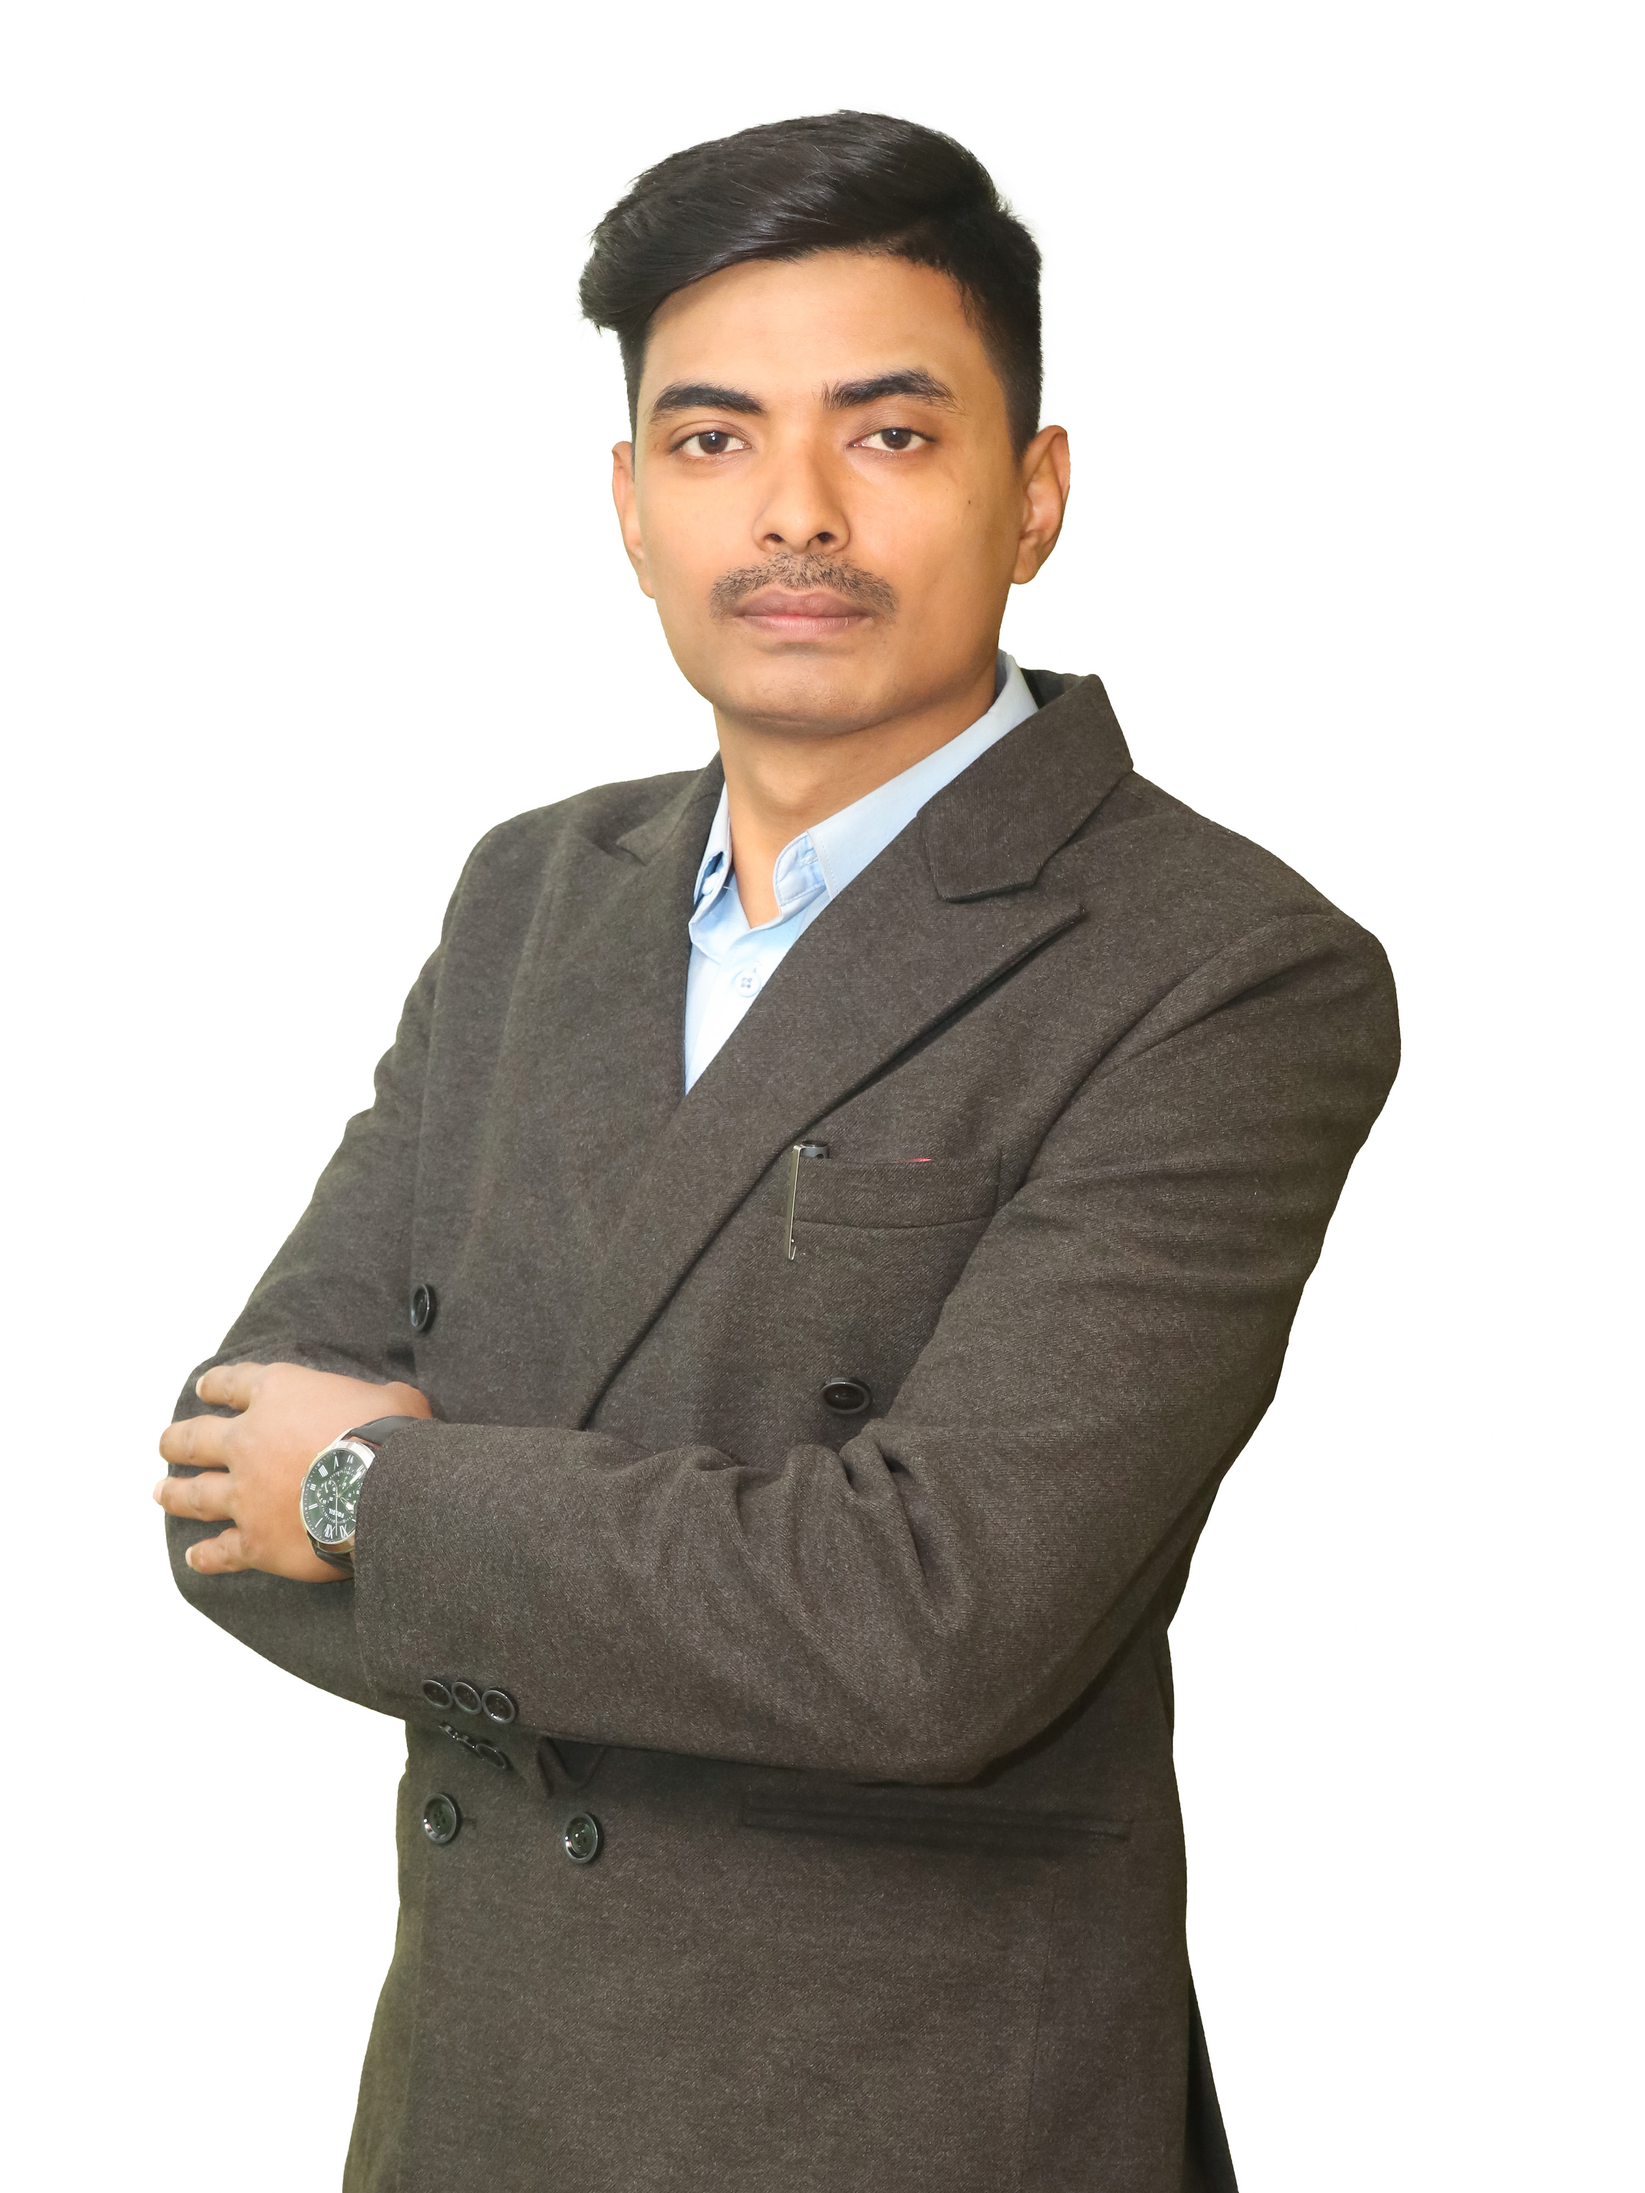
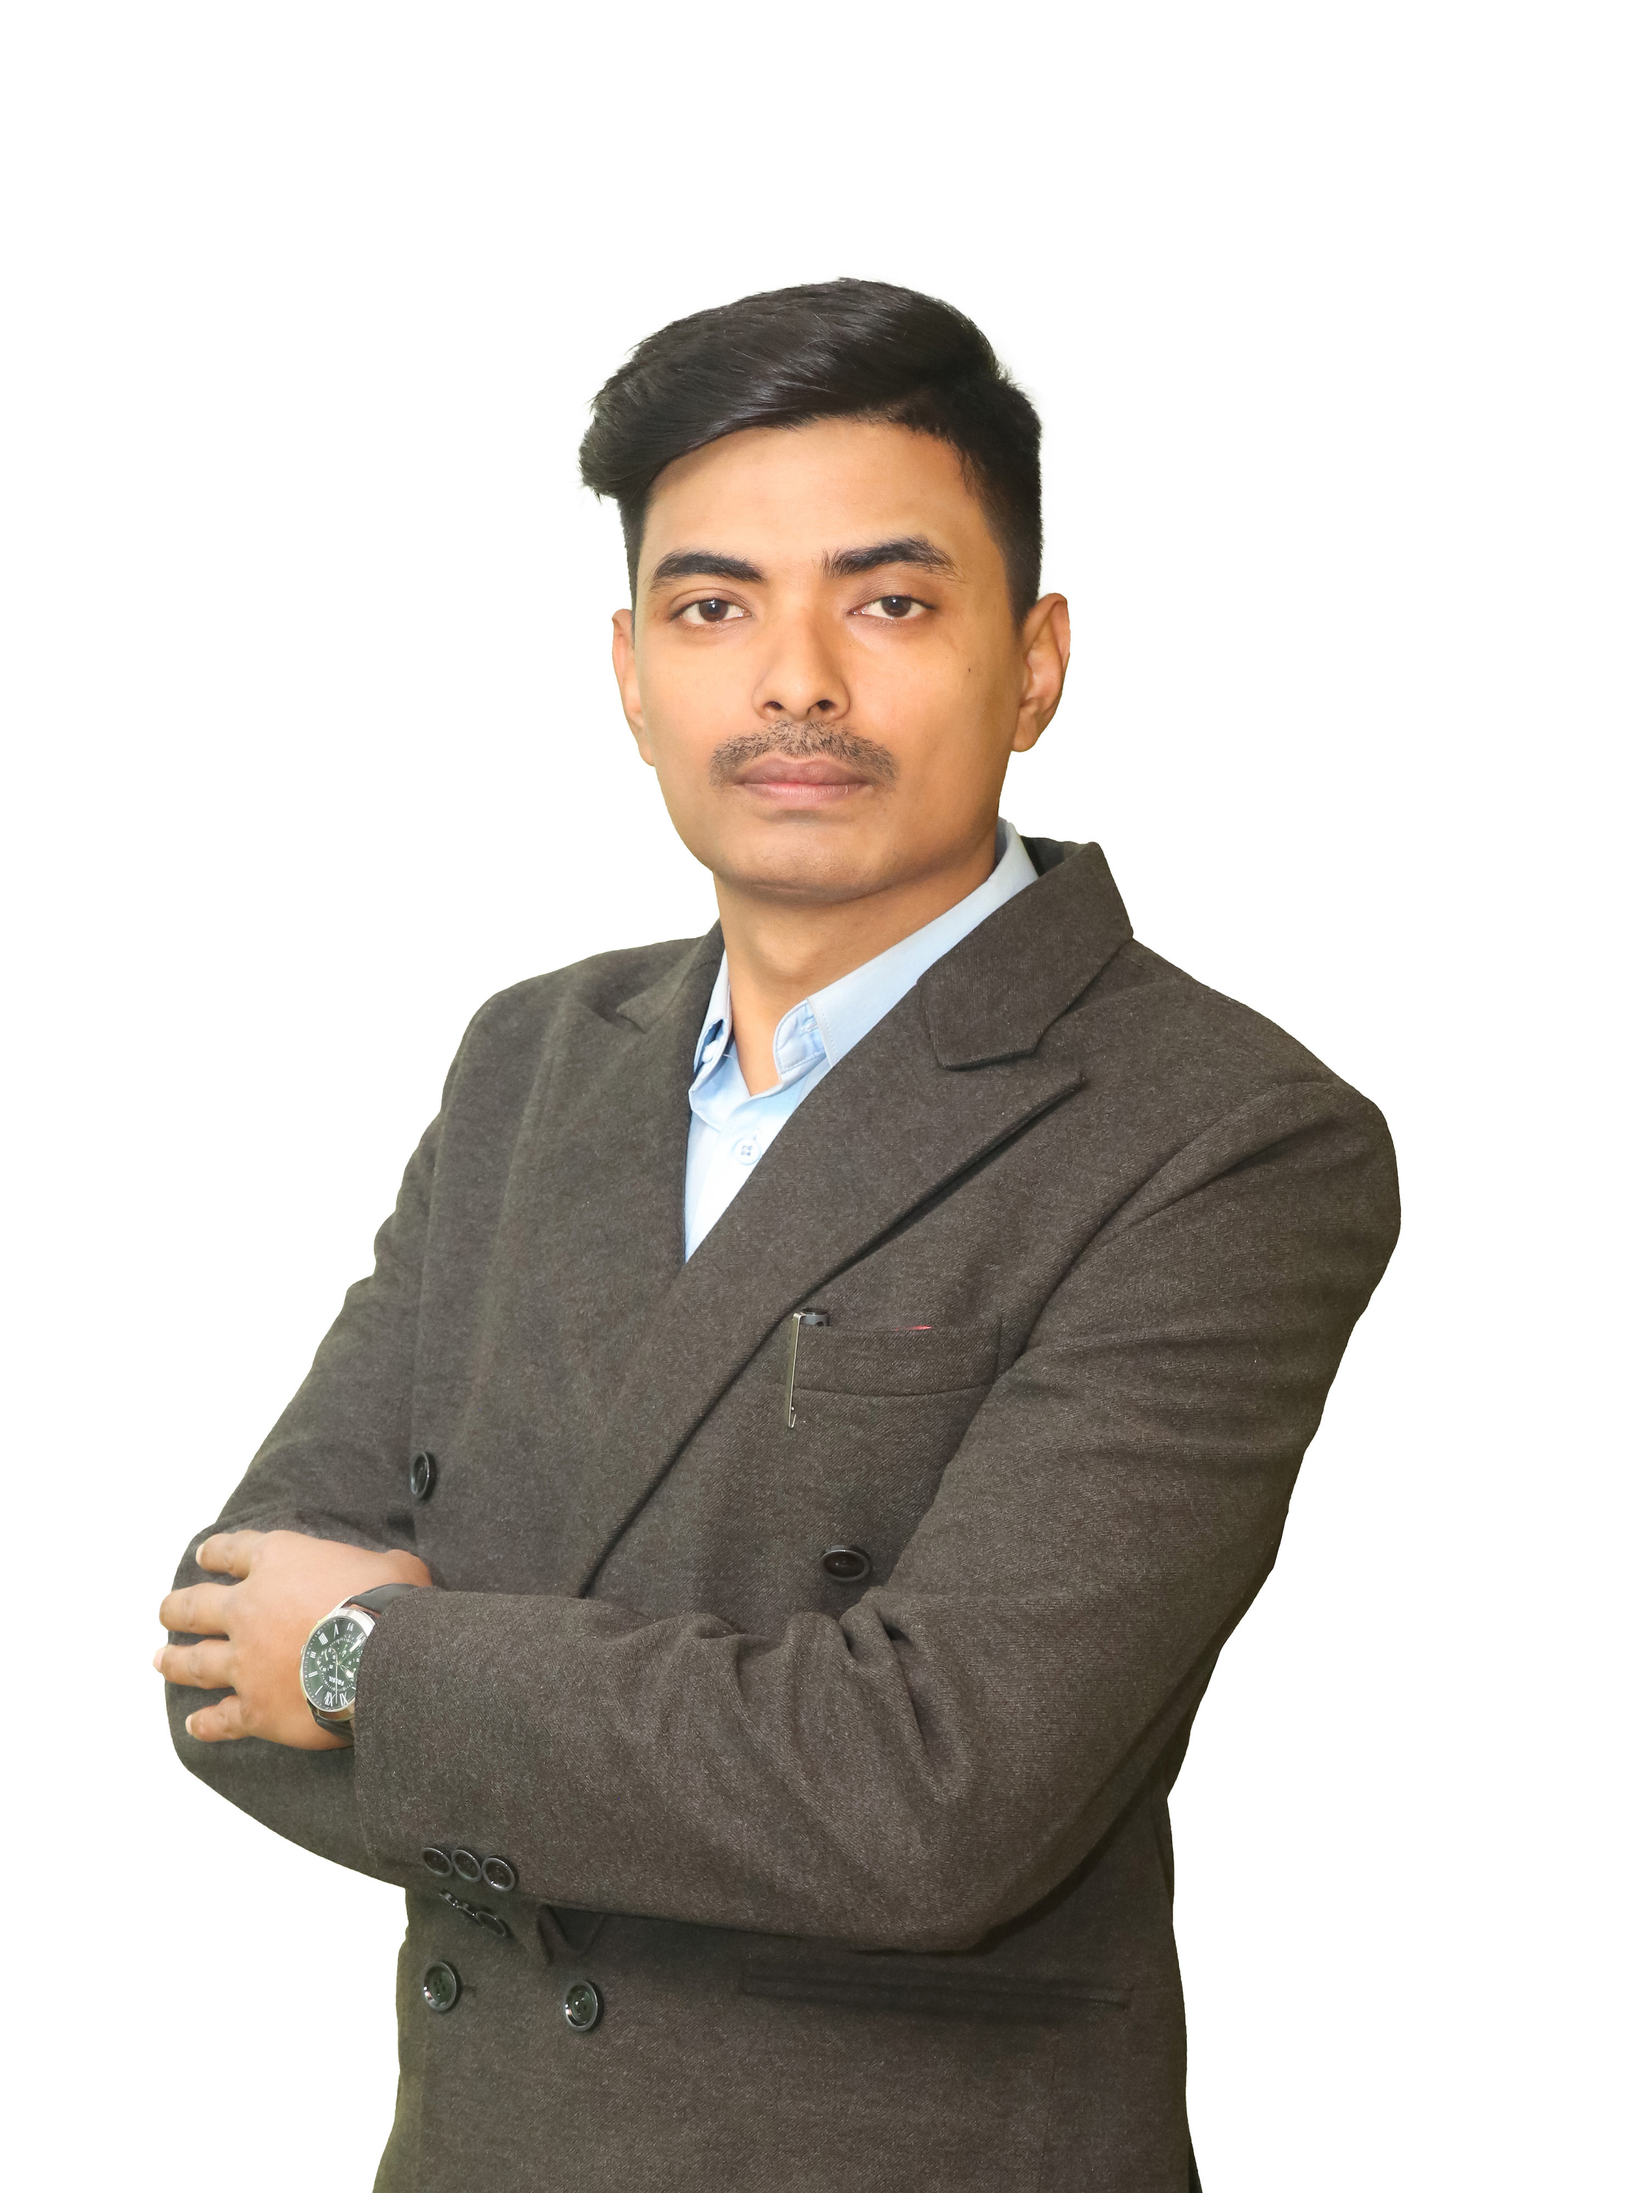
fixing the error

Changed region(s): [[0.093, 0.0312, 0.868, 1.0], [0.372, 0.9688, 0.403, 1.0]]

diff --git a/app/(root)/page.jsx b/app/(root)/page.jsx
@@ -11,7 +11,7 @@ import { FullPageWrapper, Section, useFullPage } from "@alvalens/react-fullpage-
 
 // components
 import Button from "@/components/Button";
-import Me from "@/public/image/nirajbyanju.jpg";
+import Me from "@/public/image/nirajbyanju.png";
 import MeAbout from "@/public/image/me2.jpg";
 import Setup from "@/public/image/setup.jpg";
 import ProjectAll from "@/public/image/projects.png";
@@ -114,12 +114,7 @@ const MyPage = () => {
 								delay: 0.4,
 								type: "spring",
 							}}>
-							Hi! I&rsquo;am Niraj, A fullstack software
-							engineer specializing in modern Web Development with
-							a growing focus on Artificial Intelligence. I
-							architect scalable, production-ready engines—from
-							high-traffic Java microservices to RAG-powered SaaS
-							platforms.
+							I'm a passionate software engineer with over 2 years of experience, specializing in larave, React.JS and Next JS. Dedicated to continuous learning, crafting scalable solutions, and delivering innovative projects with a focus on quality and performance.
 						</motion.p>
 						<motion.div
 							className="buttons flex flex-row justify-center items-center space-x-4 mt-10"
@@ -151,14 +146,12 @@ const MyPage = () => {
 							delay: 0.7,
 							type: "spring",
 						}}>
-						<div className="rounded-full h-auto w-auto max-w-[26vw] lg:px-12 grayscale hover:grayscale-0 transition-all ease duration-300">
+						<div className="rounded  w-auto  hover:grayscale-10 hover:cursor-pointer transition-all ease duration-300">
 							<Image
 								src={Me}
-								width={400}
-								height={550}
 								placeholder="blur"
 								alt="Niraj"
-								className="rounded-full w-full h-full object-cover"
+								className=" "
 							/>
 						</div>
 					</motion.div>
@@ -168,7 +161,7 @@ const MyPage = () => {
 				<div className="relative md:h-screen w-screen gap-4 flex justify-center items-center flex-col overflow-hidden">
 					<div className="z-0 mb-48 md:mb-0  md:absolute md:top-1/2  md:right-[10%] md:-translate-y-1/2">
 						<motion.div
-							className="relative bg-slate-300 rounded-sm h-[400px] md:h-[60vh] w-[80vw] md:w-[30vw] grayscale hover:grayscale-0"
+							className="relative bg-slate-300 rounded-sm h-[400px] md:h-[70vh] w-[80vw] md:w-[30vw]  hover:grayscale-30 hover:cursor-pointer"
 							initial={{
 								x: 300,
 								opacity: 0,

diff --git a/app/layout.jsx b/app/layout.jsx
@@ -97,7 +97,7 @@ export default function RootLayout({ children }) {
 				<ClientTopProgressBar />
 				<Navbar />
 				{children}
-				<Chat />
+				{/* <Chat /> */}
 				<Analytics />
 			</body>
 		</html>
